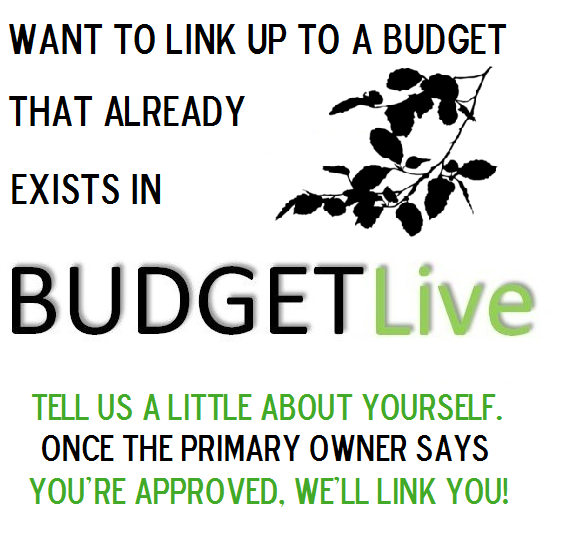
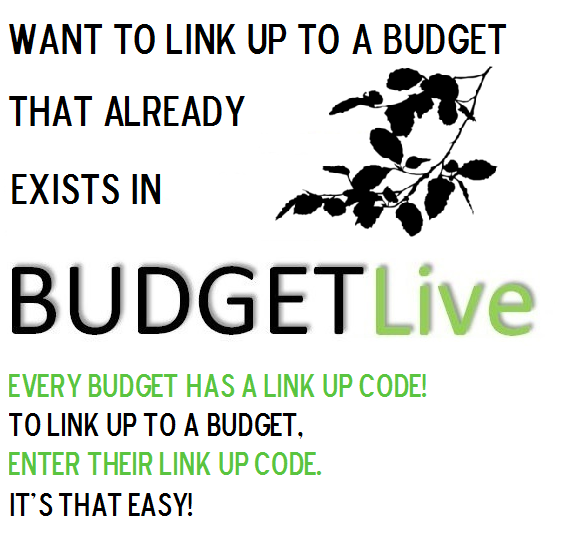
added link up code entry

Changed region(s): [[0.0, 0.6825, 0.9059, 0.9617]]

diff --git a/public/javascripts/user.js b/public/javascripts/user.js
@@ -2,6 +2,7 @@ $(document).ready(function()
 {
 	var email;
 	var name;
+	var name2;
 	var username;
 	var categories = {};
 	var transactions = {};
@@ -11,10 +12,13 @@ $(document).ready(function()
 	var remaining = [];
 	var spent = [];
 	var lineSeries = [];
+	var lineSeries2 = [];
 	var timeFrameLine = [];
 	var transSize = 0;
 	var budgetId;
 	var totalSpending = 0;
+	var totalSpending1 = 0;
+	var totalSpending2 = 0;
 
 	$.ajax(
 	{
@@ -203,13 +207,63 @@ $(document).ready(function()
 	{
 		for(var key in transactions)
 		{
-			var line = $('#SpendingOverTime').highcharts()
+				var line = $('#SpendingOverTime').highcharts()
+				var x = transactions[key].date;
+				var y = transactions[key].amountSpent;
+				totalSpending = totalSpending + y;
+				line.series[0].addPoint([x, totalSpending]);
+				
+		}
+		/*var userCount = 0;
+		var names = [];
+		for ( var key in transactions)
+		{
+			var name_ = transactions[key].name;
+			if ( name_ != name)
+			{
+				name2 = name_;
+			}
+			if ( userCount === 0 )
+			{
+				names[userCount] = name_;
+				userCount = userCount + 1;
+			}
+			else if ( name_ != names[0])
+			{
+				if ( userCount === 1)
+				{
+					names[userCount] = name_;
+					userCount = userCount + 1;
+				}
+			}
+		}
+		var line = $('#SpendingOverTime').highcharts();
+		if ( userCount === 2 )
+		{
+			line.addSeries({
+				name: name2;
+				data: lineSeries2;
+			});
+		}
+		for(var key in transactions)
+		{
+			
 			var x = transactions[key].date;
 			var y = transactions[key].amountSpent;
-			totalSpending = totalSpending + y;
-			line.series[0].addPoint([x, totalSpending]);
+			var userName = transactions[key].name;
 			
-		}
+			if ( userName === name)
+			{
+				totalSpending1 = totalSpending1 + y;
+				line.series[0].addPoint([x, totalSpending1]);
+			}
+			else if ( userName === name2)
+			{
+				totalSpending2 = totalSpending2 + y;
+				line.series[1].addPoint([x, totalSpending2]);
+			}
+			
+		}*/
 		
 	}
 

diff --git a/views/linkUp.html b/views/linkUp.html
@@ -23,7 +23,8 @@
 		First Name<br><input type="text" name="first_name" required="required"/><br><br><br>
 		Username<br><input type="text" name="username" required="required"/><br><br><br>
 		Password<br><input type="password" name="password" required="required"/><br><br><br>
-		Confirm Password<br><input type="password" name="confirm_password" required="required"/><br><br><br><br>
+		Confirm Password<br><input type="password" name="confirm_password" required="required"/><br><br><br>
+		Link Code<br><input type="password" name="Link Code" required="required"/><br><br><br>
 		<input type="submit" value="Sign Up" id="signUpButton"/>
 		</form>
 		

diff --git a/public/stylesheets/linkUp.css b/public/stylesheets/linkUp.css
@@ -40,9 +40,9 @@ linkRegistration
 	background:#E6E6E6;
 	width: 300px;
 	position: absolute;
-	height: 540px;
+	height: 570px;
 	left: 820px;
-	top: 105px;
+	top: 80px;
 	opacity: .85;
 }
 
@@ -58,7 +58,7 @@ form
 {
 	position:absolute;
 	left:880px;
-	top: 130px;
+	top: 100px;
 	font-family: Verdana, Arial, Sans-Serif;
 	color: #000;
 	font-size: 15px;
